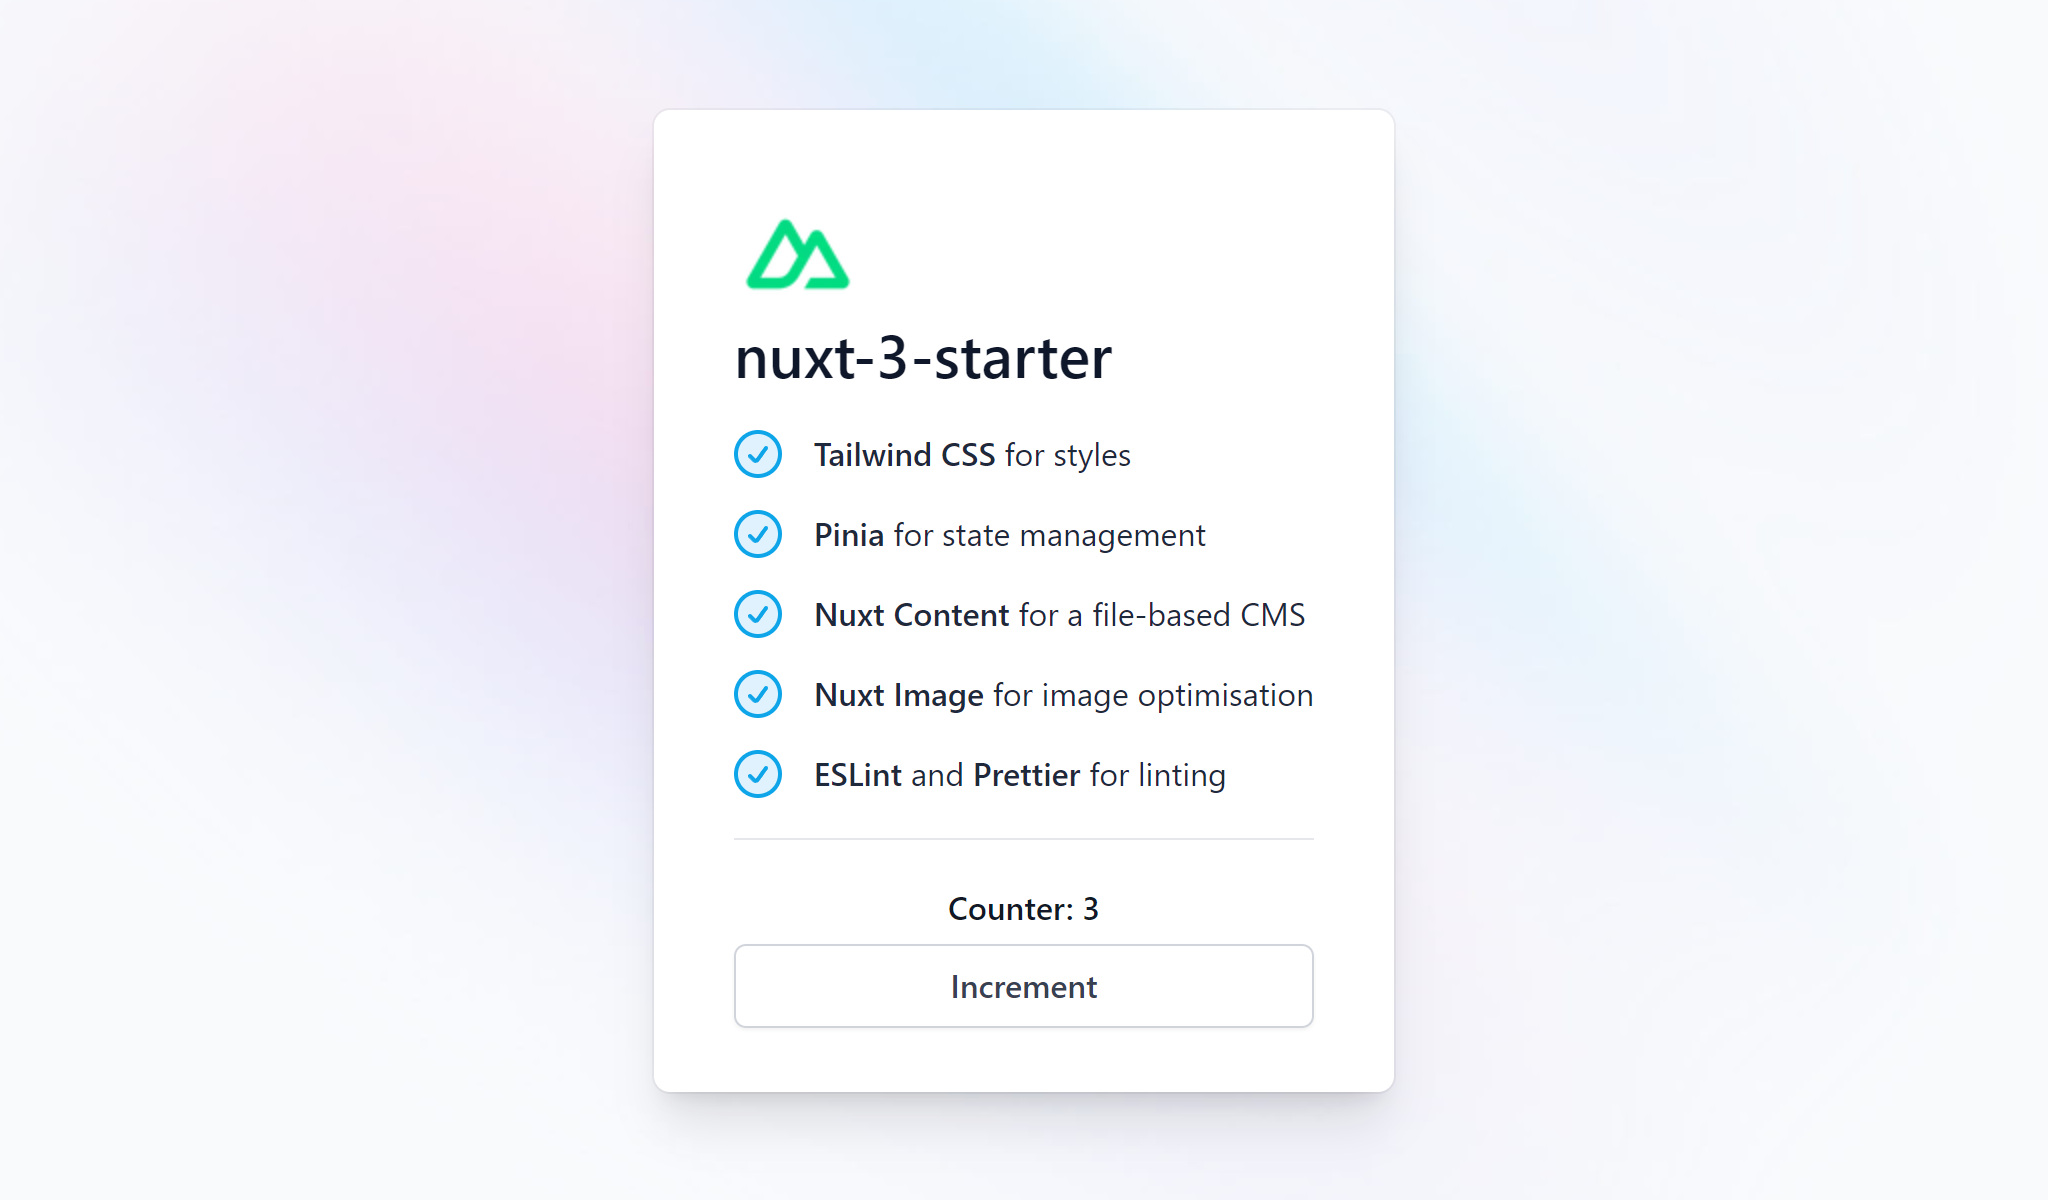
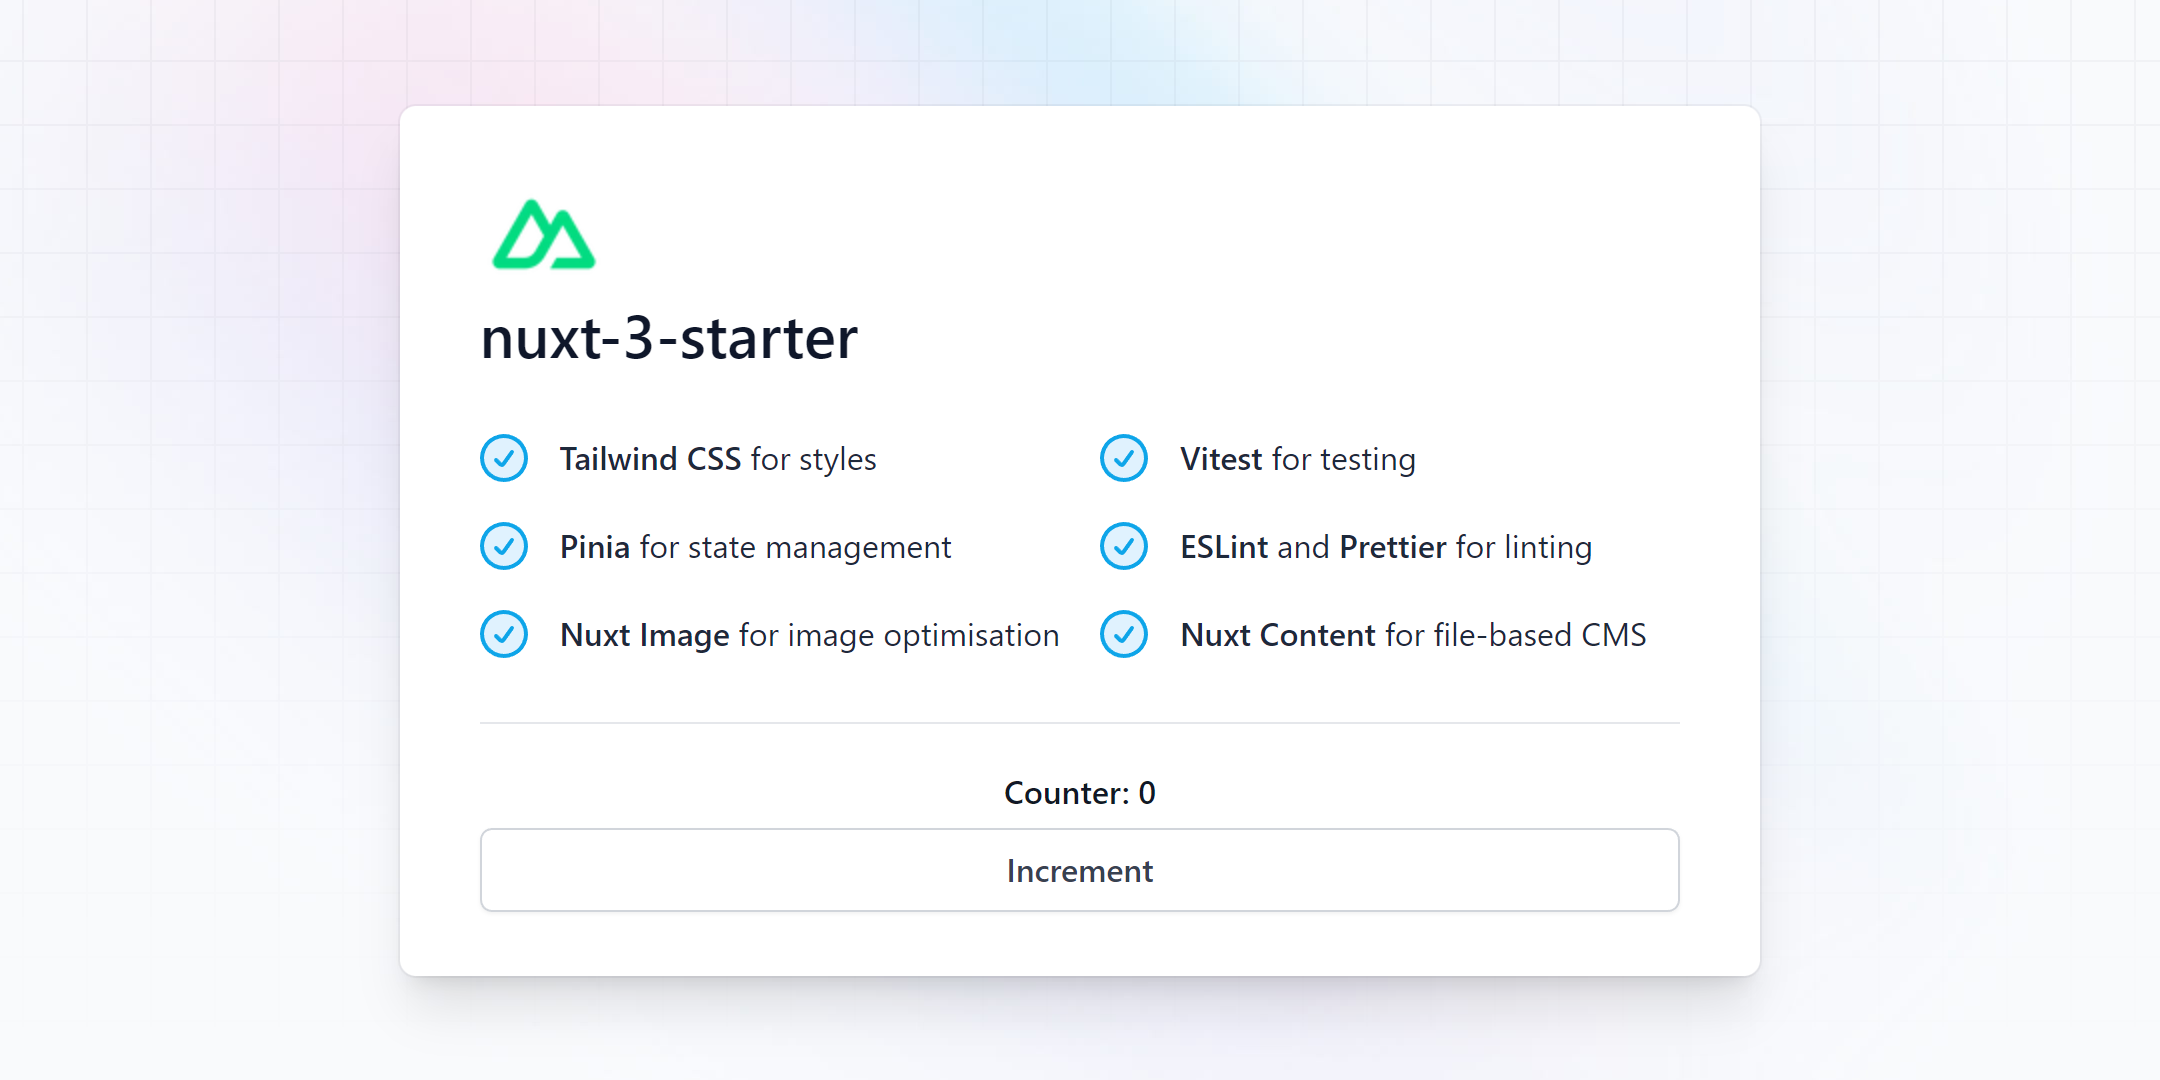
Update home page and screenshot

diff --git a/nuxt-app/components/StarterBody.vue b/nuxt-app/components/StarterBody.vue
@@ -1,6 +1,6 @@
 <template>
-  <div>
-    <ul class="space-y-4">
+  <div class="flex space-x-5">
+    <div class="grid grid-cols-2 gap-5">
       <li class="flex items-center">
         <svg
           class="h-6 w-6 flex-none fill-sky-100 stroke-sky-500 stroke-2"
@@ -24,33 +24,20 @@
           <path d="m8 13 2.165 2.165a1 1 0 0 0 1.521-.126L16 9" fill="none" />
         </svg>
         <p class="ml-4 text-slate-800">
+          <span class="font-semibold">Vitest</span> for testing
+        </p>
+      </li>
+      <li class="flex items-center">
+        <svg
+          class="h-6 w-6 flex-none fill-sky-100 stroke-sky-500 stroke-2"
+          stroke-linecap="round"
+          stroke-linejoin="round"
+        >
+          <circle cx="12" cy="12" r="11" />
+          <path d="m8 13 2.165 2.165a1 1 0 0 0 1.521-.126L16 9" fill="none" />
+        </svg>
+        <p class="ml-4 text-slate-800">
           <span class="font-semibold">Pinia</span> for state management
-        </p>
-      </li>
-      <li class="flex items-center">
-        <svg
-          class="h-6 w-6 flex-none fill-sky-100 stroke-sky-500 stroke-2"
-          stroke-linecap="round"
-          stroke-linejoin="round"
-        >
-          <circle cx="12" cy="12" r="11" />
-          <path d="m8 13 2.165 2.165a1 1 0 0 0 1.521-.126L16 9" fill="none" />
-        </svg>
-        <p class="ml-4 text-slate-800">
-          <span class="font-semibold">Nuxt Content</span> for a file-based CMS
-        </p>
-      </li>
-      <li class="flex items-center">
-        <svg
-          class="h-6 w-6 flex-none fill-sky-100 stroke-sky-500 stroke-2"
-          stroke-linecap="round"
-          stroke-linejoin="round"
-        >
-          <circle cx="12" cy="12" r="11" />
-          <path d="m8 13 2.165 2.165a1 1 0 0 0 1.521-.126L16 9" fill="none" />
-        </svg>
-        <p class="ml-4 text-slate-800">
-          <span class="font-semibold">Nuxt Image</span> for image optimisation
         </p>
       </li>
       <li class="flex items-center">
@@ -77,9 +64,22 @@
           <path d="m8 13 2.165 2.165a1 1 0 0 0 1.521-.126L16 9" fill="none" />
         </svg>
         <p class="ml-4 text-slate-800">
-          <span class="font-semibold">Vitest</span> for testing
+          <span class="font-semibold">Nuxt Image</span> for image optimisation
         </p>
       </li>
-    </ul>
+      <li class="flex items-center">
+        <svg
+          class="h-6 w-6 flex-none fill-sky-100 stroke-sky-500 stroke-2"
+          stroke-linecap="round"
+          stroke-linejoin="round"
+        >
+          <circle cx="12" cy="12" r="11" />
+          <path d="m8 13 2.165 2.165a1 1 0 0 0 1.521-.126L16 9" fill="none" />
+        </svg>
+        <p class="ml-4 text-slate-800">
+          <span class="font-semibold">Nuxt Content</span> for file-based CMS
+        </p>
+      </li>
+    </div>
   </div>
 </template>

diff --git a/nuxt-app/layouts/default.vue b/nuxt-app/layouts/default.vue
@@ -1,6 +1,6 @@
 <template>
   <div
-    class="relative flex min-h-screen flex-col justify-center overflow-hidden bg-gray-50 py-6 sm:py-12"
+    class="relative flex min-h-screen flex-col justify-center overflow-hidden bg-gray-50 py-6 md:py-12"
   >
     <img
       src="/img/beams.jpg"
@@ -12,7 +12,7 @@
       class="absolute inset-0 bg-[url(/img/grid.svg)] bg-center [mask-image:linear-gradient(180deg,white,rgba(255,255,255,0))]"
     />
     <div
-      class="relative bg-white px-6 pt-10 pb-8 shadow-xl ring-1 ring-gray-900/5 sm:mx-auto sm:max-w-lg sm:rounded-lg sm:px-10"
+      class="relative bg-white px-5 py-8 shadow-xl ring-1 ring-gray-900/5 md:mx-auto md:max-w-3xl md:rounded-lg md:px-10"
     >
       <slot />
     </div>

diff --git a/nuxt-app/pages/index.vue b/nuxt-app/pages/index.vue
@@ -1,7 +1,7 @@
 <template>
-  <div class="mx-auto max-w-md">
-    <StarterHeading class="pb-5" />
-    <StarterBody class="pb-5" />
+  <div class="mx-auto">
+    <StarterHeading class="pb-8" />
+    <StarterBody class="pb-8" />
     <StarterCounter class="pt-5 border-t divide-slate-200" />
   </div>
 </template>
